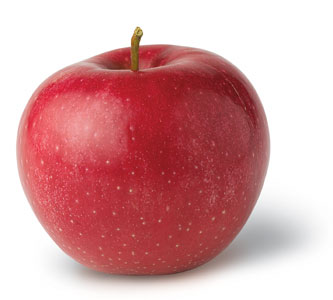
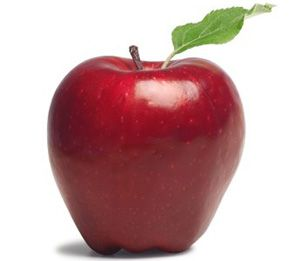
corrected allignment  and added image in nutrition

diff --git a/FoodApp/templates/recognize.html b/FoodApp/templates/recognize.html
@@ -4,7 +4,7 @@
 <div class="row" style="padding: 10px 10px;">
 
     <!--Webstreaming-->
-    <div class="col-5">
+    <div class="col-4">
         <div class="card">
             <h5 class="card-header .txt-center">Test Image</h5>
             <div class="card-body">
@@ -31,42 +31,47 @@
     </div>
 
     <!-- Fruit nutrion information-->
-    <div class="col-5">
+    <div class="col-6">
         <div class="card">
             <h5 class="card-header">Fruit Nutrition Information</h5>
             <div class="card-body">
+                <center>
+                    <img style="width: 200px;height: 200px;" src="{{nutrition.Image}}" alt="">
+                </center>
                 <table class="table nutrtion_info_container">
                     <tr>
                        <td class="key">Name</td>
-                       <td>{{result}}</td> 
+                       <td class="value">{{result}}</td>
+                       <td></td>
+                       <td></td> 
                     </tr>
                     <tr>
-                        <td class="key">Taste</td>
-                        <td>{{nutrition.Taste}}</td> 
+                        <td  class="key">Taste</td>
+                        <td class="value">{{nutrition.Taste}}</td> 
                      </tr>
                      <tr>
-                        <td class="key">Calories</td>
-                        <td>{{nutrition.Nutrition.Calories}}</td> 
+                        <td  class="key">Calories</td>
+                        <td class="value">{{nutrition.Nutrition.Calories}}</td> 
                      </tr>
                      <tr>
-                        <td class="key">Water</td>
-                        <td>{{nutrition.Nutrition.Water}}</td> 
+                        <td  class="key">Water</td>
+                        <td class="value">{{nutrition.Nutrition.Water}}</td> 
                      </tr>
                         <tr>
-                        <td class="key">Protein</td>
-                        <td>{{nutrition.Nutrition.Protein}}</td> 
+                        <td  class="key">Protein</td>
+                        <td class="value">{{nutrition.Nutrition.Protein}}</td> 
                      </tr>                      
                      <tr>
-                        <td class="key">Sugar</td>
-                        <td>{{nutrition.Nutrition.Sugar}}</td> 
+                        <td  class="key">Sugar</td>
+                        <td class="value">{{nutrition.Nutrition.Sugar}}</td> 
                      </tr>
                      <tr>
-                        <td class="key">Fat</td>
-                        <td>{{nutrition.Nutrition.Fat}}</td> 
+                        <td  class="key">Fat</td>
+                        <td class="value">{{nutrition.Nutrition.Fat}}</td> 
                      </tr>
                      <tr >
-                        <td class="key">Info</td>
-                        <td><p>{{nutrition.Info}}</p></td> 
+                        <td  class="key">Info</td>
+                        <td class="value">{{nutrition.Info}}</td> 
                      </tr>
 
                      

diff --git a/FoodApp/static/styles.css b/FoodApp/static/styles.css
@@ -68,13 +68,18 @@ animation: arrow_fading 1s infinite 0s linear;
 
 
 .nutrtion_info_container{
-    width: 100%;
+    width: 110%;
     border: none;
 }
 .nutrtion_info_container .key{
     font-weight: 600;
+    column-span: 3;
+}
+.nutrtion_info_container .value{
+    padding-left: 60px;
 }
 .table td{
     border: none;
     font-size: 18px;
+    
 }
